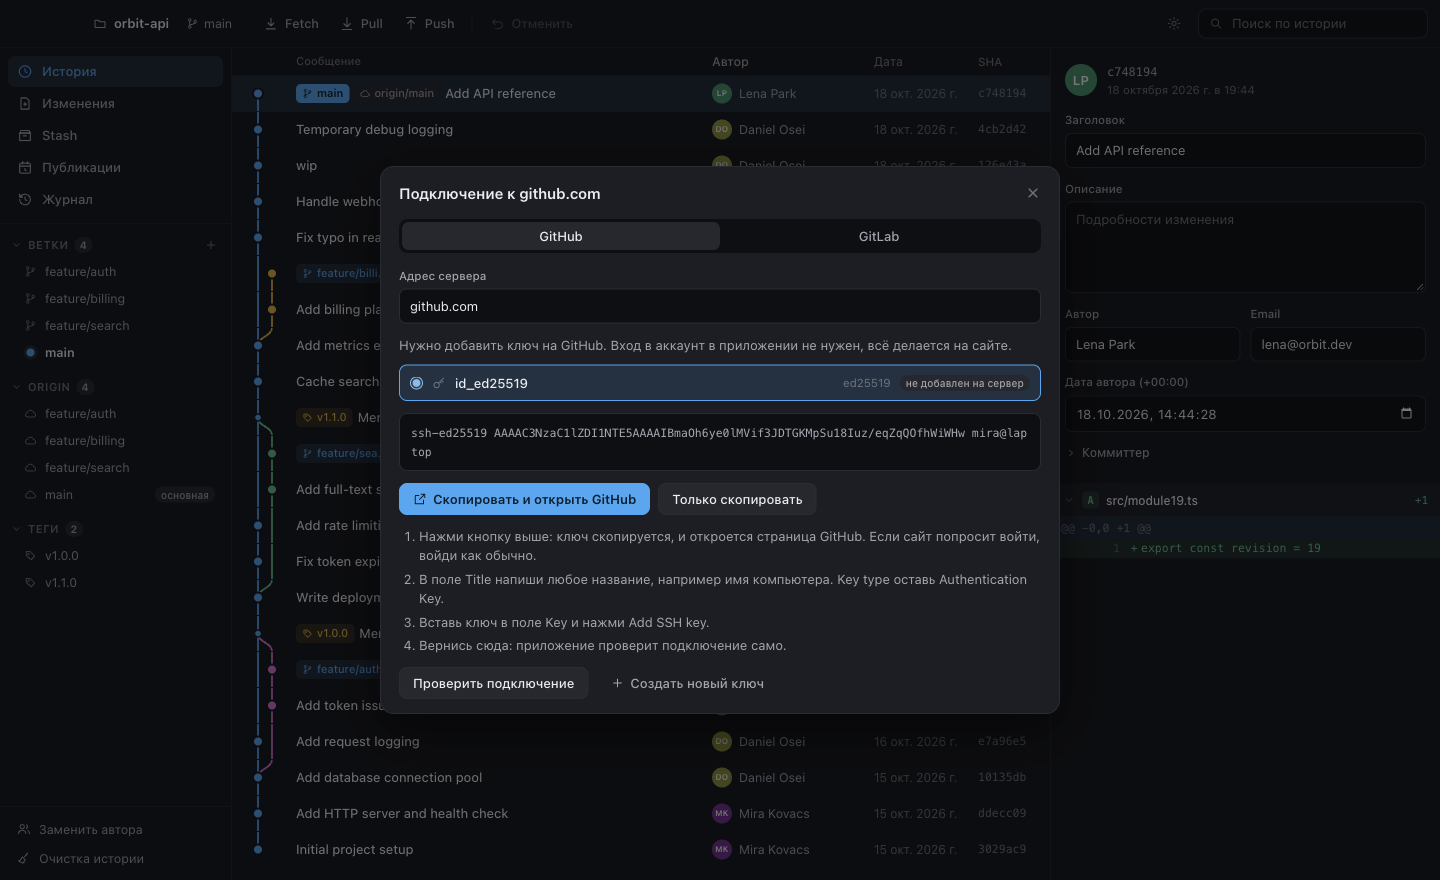
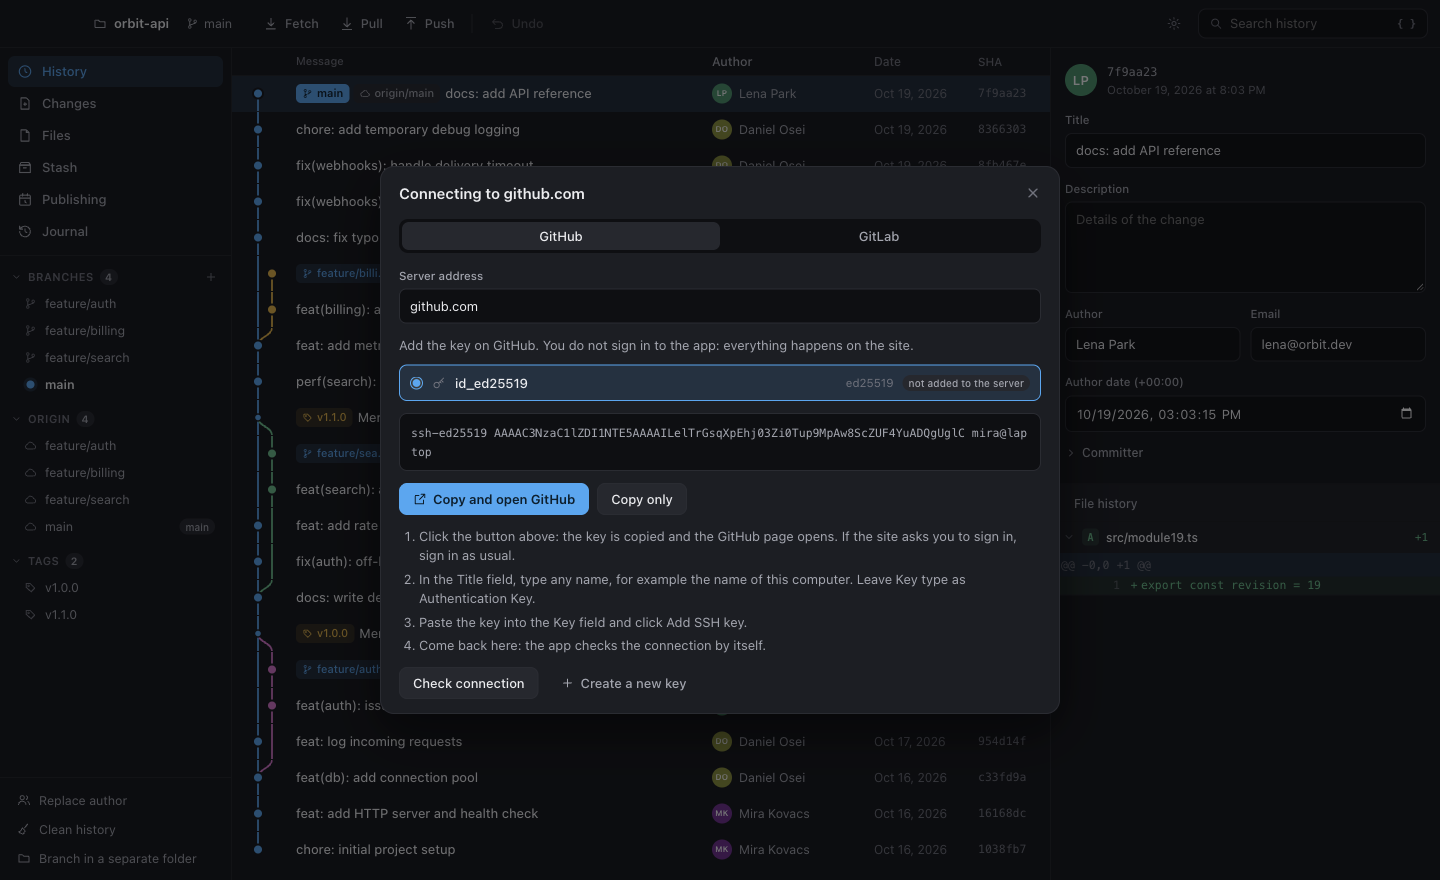
Show the English interface in the dark theme in both READMEs
The demo repository's commits follow Conventional Commits. Both READMEs use the same screenshots.

diff --git a/README.md b/README.md
@@ -19,11 +19,7 @@
   <b>English</b> · <a href="README.ru.md">Русский</a>
 </p>
 
-<picture>
-  <source media="(prefers-color-scheme: dark)" srcset="docs/images/history-dark.png">
-  <source media="(prefers-color-scheme: light)" srcset="docs/images/history-light.png">
-  <img src="docs/images/history-dark.png" alt="Commit history with a draft of edits: one message changed, one commit squashed, one dropped">
-</picture>
+<img src="docs/images/history.png" alt="Commit history with a draft of edits: one message changed, one commit squashed, one dropped">
 
 ## Why Chronicle
 
@@ -86,7 +82,7 @@ Pull and merge requests open on the site with the branch already selected.
 | --- |
 | ![Connecting with an SSH key](docs/images/connect.png) |
 
-The interface is currently in Russian.
+The interface is in English and Russian, with a light and a dark theme. Both are in Settings, and the language follows the system until you pick one.
 
 ## Download
 
